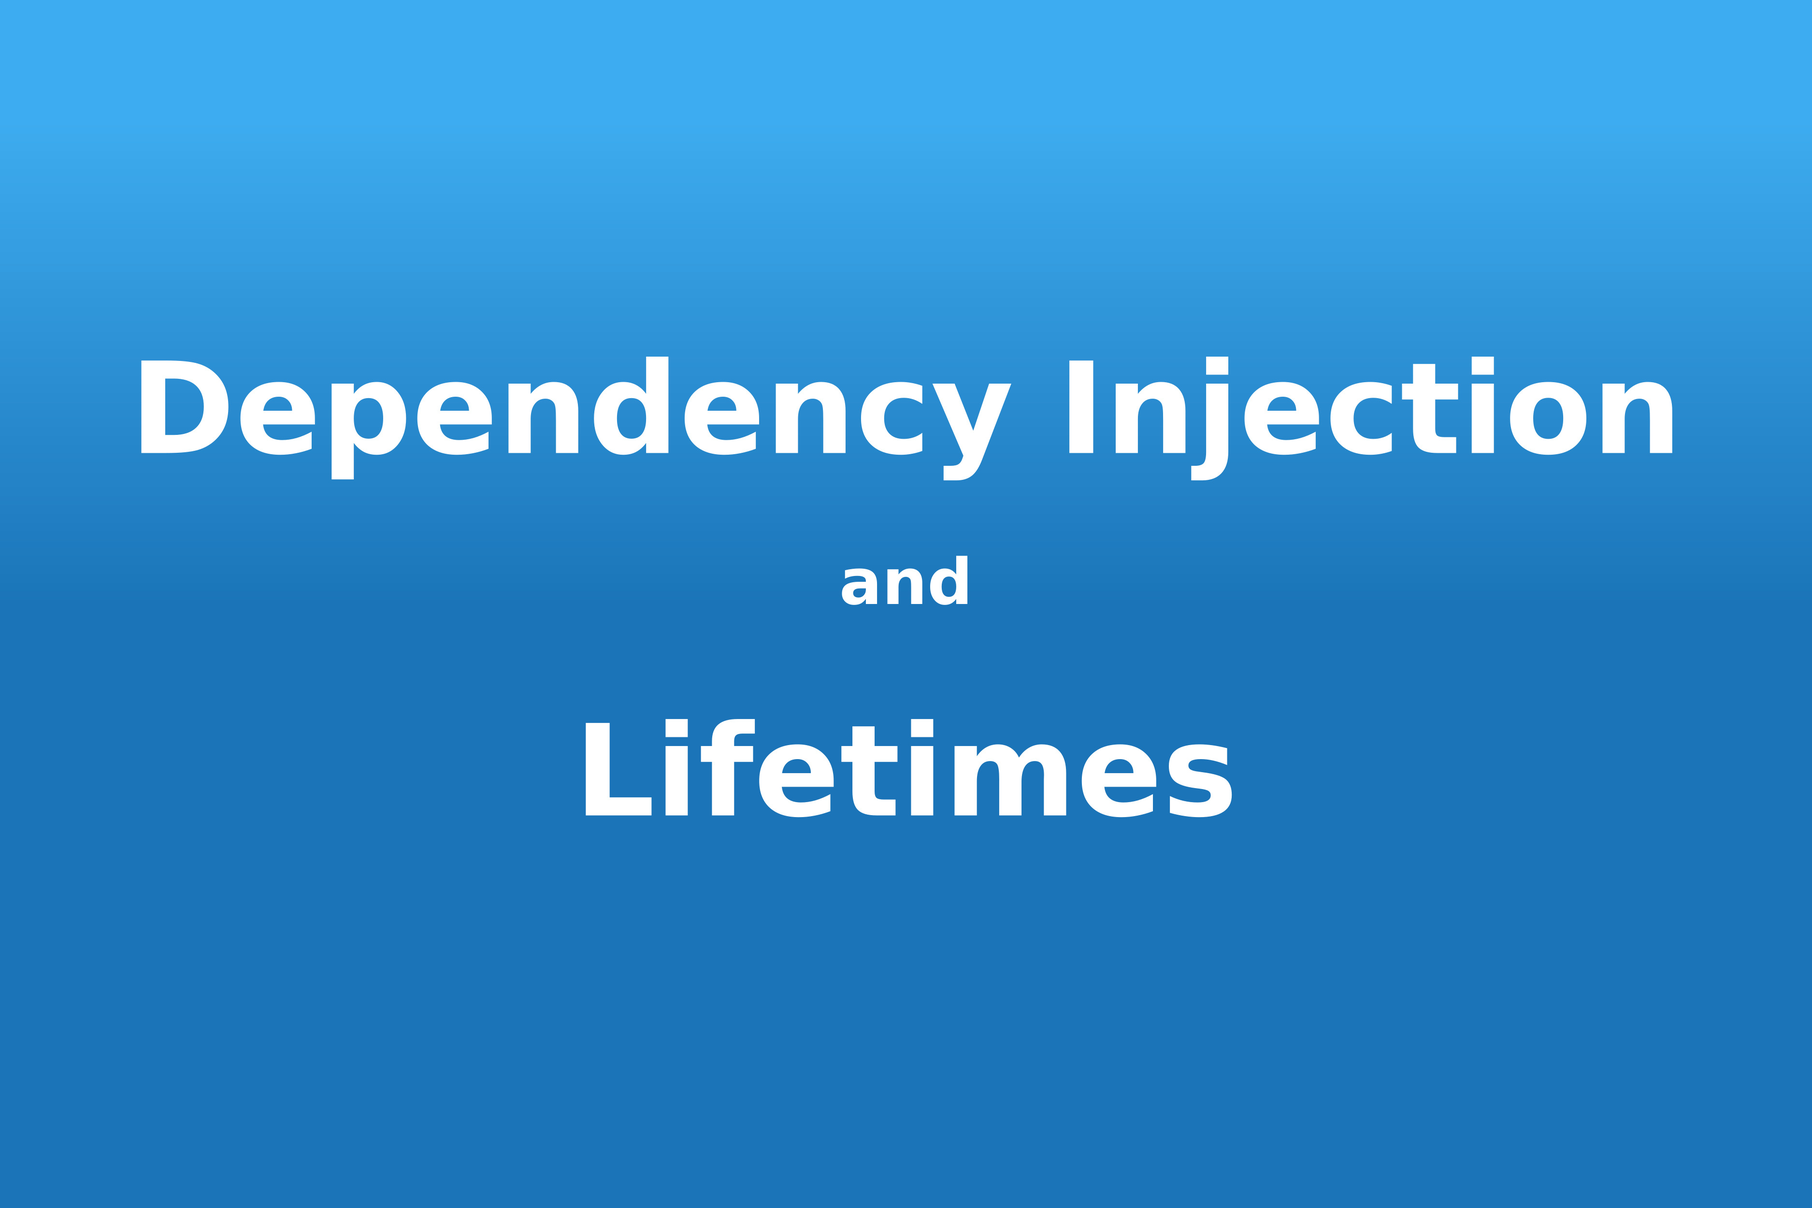
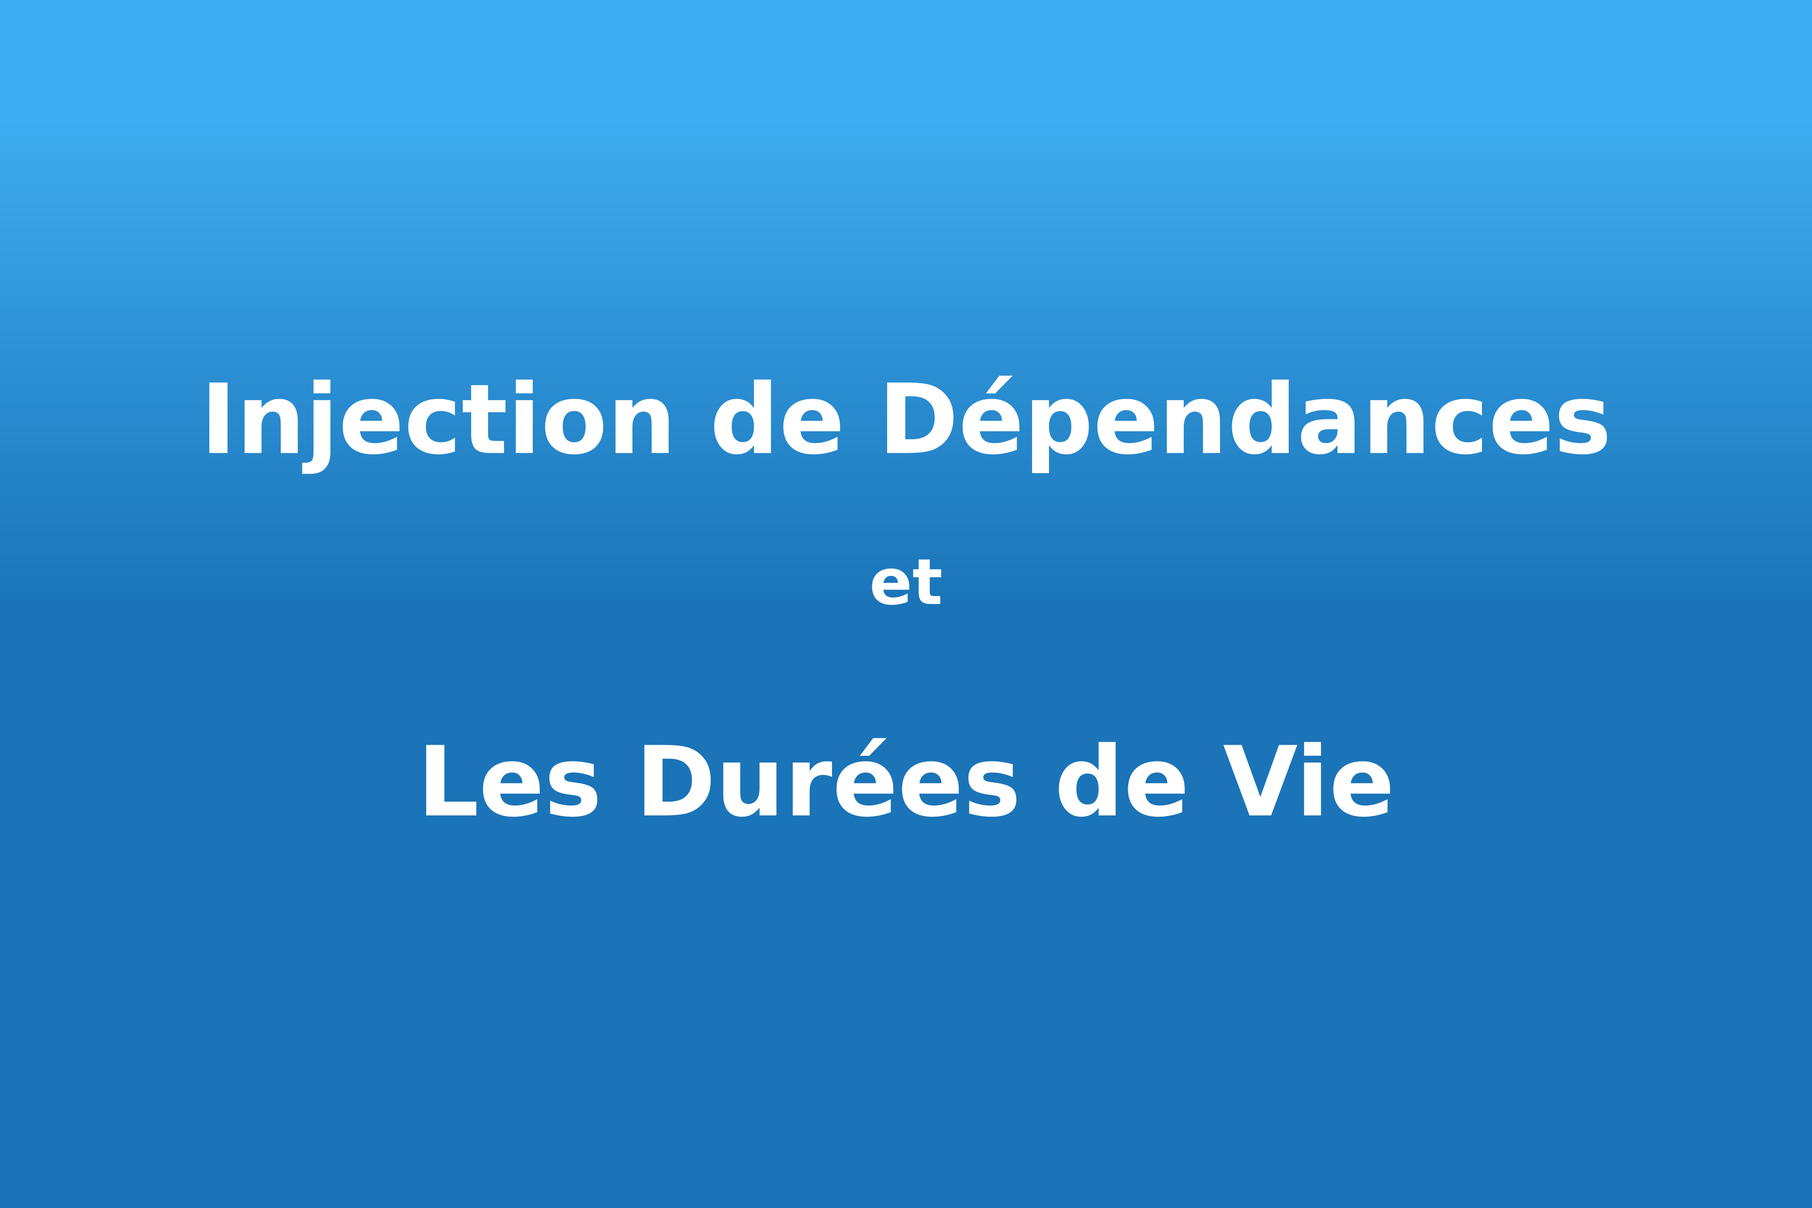
schedule article 2025-08-15

Changed region(s): [[0.0624, 0.2808, 0.936, 0.4056], [0.2184, 0.5928, 0.78, 0.6864], [0.468, 0.468, 0.5616, 0.4992]]

diff --git a/content/post/2025-08/injection-de-dependance-et-durees-de-vie-applicatives/index.md b/content/post/2025-08/injection-de-dependance-et-durees-de-vie-applicatives/index.md
@@ -1,27 +1,26 @@
 ---
 title: "Injection de dépendance et durées de vie applicatives"
-description: "Dans le développement de logiciels, en particulier dans le contexte de l'injection de dépendances, les durées de vie des services déterminent combien de temps une instance d'une classe est maintenue en vie."
+description: "Dans le développement de logiciels, en particulier dans le contexte de l’injection de dépendances, les durées de vie des services déterminent combien de temps une instance d’une classe est maintenue en vie."
 image: 2025-05-19-dependency-injection-and-lifetimes.jpg
-imageAlt: « Dependency Injection and Lifetimes » sur un fond dégradé
+imageAlt: "« Dependency Injection and Lifetimes » sur un fond dégradé"
 date: 2025-08-15
 categories:
-  - Software Development
+  - Développement Logiciel
 tags:
   - CSharp
-draft: true
 ---
 
-Il existe 3 durées de vie possibles quand on utilise l'injection de dépendance : `Transient`, `Scoped` et `Singleton`.
+Il existe 3 durées de vie possibles quand on utilise l’injection de dépendance : `Transient`, `Scoped` et `Singleton`.
 
-Détaillons chacune d'entre elles avec une définition, ses cas d'utilisation respectifs et un exemple.
+Détaillons chacune d’entre elles avec une définition, ses cas d’utilisation respectifs et un exemple.
 
 ## Transient
 
-Si vous avez besoin d'une nouvelle instance à chaque fois que vous demandez le service, `Transient` répond à vos besoins.
+Si vous avez besoin d’une nouvelle instance à chaque fois que vous demandez un service, `Transient` répond à vos besoins.
 
-C'est ce que nous appelons des services sans état, où chaque opération est indépendante des opérations précédentes.
+C’est ce que nous appelons des services sans état, où chaque opération est indépendante des opérations précédentes.
 
-### Exemple de code d'un Transient
+### Exemple de code d’un `Transient`
 
 Prenons un exemple très trivial avec la programmation C# :
 
@@ -43,41 +42,41 @@ public class TransientService : ITransientService
 services.AddTransient<ITransientService, TransientService>();
 ```
 
-### Cas d'utilisation courants pour un transitoire
+### Cas d’utilisation courants pour un `Transient`
 
-En général, les cas d'utilisation les plus courants sont les suivants :
+En général, les cas d’utilisation les plus courants sont les suivants :
 
-- **Services d'utilitaire**, qui n'ont pas besoin de maintenir un état entre les appels.
+- **Services d’utilitaire**, qui n’ont pas besoin de maintenir un état entre les appels.
 - **Services de formatage**, tels que la conversion de données dans un format de chaîne spécifique.
-- **Services de calcul**, lorsque vous devez effectuer des calculs ou des transformations de données sans avoir à maintenir d'état.
-- **Services d'opération**, qui effectuent une opération spécifique indépendamment chaque fois qu'ils sont appelés, comme l'envoi d'un courrier électronique ou l'enregistrement d'un événement.
+- **Services de calcul**, lorsque vous devez effectuer des calculs ou des transformations de données sans avoir à maintenir d’état.
+- **Services d’opération**, qui effectuent une opération spécifique indépendamment chaque fois qu’ils sont appelés, comme l’envoi d’un courrier électronique ou l’enregistrement d’un événement.
 
-Bien sûr, tous ces usages supposent que l'on a besoin d'une instanciation de classe.
+Bien sûr, tous ces usages supposent que l’on a besoin d’une instanciation de classe. Dans le cas de classes statiques, vous n’avez pas besoin de `Transient`.
 
 ## Scoped
 
-Lorsque vous devez maintenir un état au cours d'une seule requête, mais pas au cours de plusieurs requêtes, l'utilisation du `Scoped` correspond à la durée de vie à utiliser.
+Lorsque vous devez maintenir un état au cours d’une seule requête, mais pas au cours de plusieurs requêtes, l’utilisation du `Scoped` correspond à la durée de vie à utiliser.
 
-Dans une application web, nous créons une nouvelle instance pour chaque requête HTTP, et nous pouvons l'utiliser pendant toute la durée de vie de la requête.
+Dans une application web, nous créons une nouvelle instance pour chaque requête HTTP, et nous pouvons l’utiliser pendant toute la durée de vie de la requête.
 
-### Cas d'utilisation courants pour un `Scoped`
+### Cas d’utilisation courants pour un `Scoped`
 
-Voici quelques cas d'utilisation courants :
+Voici quelques cas d’utilisation courants :
 
-- **Entity Framework DbContext**, qui garantit une instance unique du DbContext utilisée tout au long d'une requête pour gérer les opérations de base de données, évitant ainsi les problèmes de concurrence et garantissant que toutes les modifications sont suivies et conservées correctement.
-- **Le modèle d'unité de travail**, qui permet de gérer une unité de travail unique englobant plusieurs opérations de référentiel au sein d'une même requête.
-- **La mise en cache par requête**, pour mettre en cache les données qui sont coûteuses à récupérer ou à calculer et qui doivent être réutilisées au sein d'une même requête, mais pas au-delà.
-- **Données spécifiques à la demande** : Stockage de données spécifiques à une demande, telles que les informations d'authentification de l'utilisateur, qui doivent être accessibles par plusieurs composants au cours du traitement de la demande.
+- **Le `DbContext` d’_Entity Framework_**, qui garantit une instance unique du `DbContext` utilisée tout au long d’une requête pour gérer les opérations de base de données. Cela évite ainsi les problèmes de concurrence et garantissant que toutes les modifications sont suivies et conservées correctement.
+- **Le modèle d’unité de travail**, qui permet de gérer une unité de travail unique englobant plusieurs opérations de référentiel au sein d’une même requête.
+- **La mise en cache par requête**, pour mettre en cache les données qui sont coûteuses à récupérer ou à calculer et qui doivent être réutilisées au sein d’une même requête, mais pas au-delà.
+- **Données spécifiques à la demande** : pour le stockage de données spécifiques à une demande, telles que les informations d’authentification de l’utilisateur, qui doivent être accessibles par plusieurs composants au cours du traitement de la demande.
 
-### Code Example of a Scoped
+### Exemple de code pour un `Scoped`
 
-Let’s consider a scenario where we have a web application that handles user authentication and authorization. We need to access user-specific data multiple times during a single request to ensure that the user has the correct permission to access various resources.
+Considérons un scénario dans lequel nous avons une application web qui gère l’authentification et l’autorisation des utilisateurs. Nous devons accéder à plusieurs reprises aux données spécifiques à l’utilisateur au cours d’une seule requête afin de nous assurer que l’utilisateur dispose des autorisations nécessaires pour accéder à diverses ressources.
 
-We can use a scoped service to store and manage this user data.
+Nous pouvons utiliser un service à portée pour stocker et gérer ces données utilisateur.
 
-1. Let’s create a `UserContextService` and its interface:
+1. Créons un `UserContextService` et son interface.:
 
-   It holds user-specific data for the duration of a single request.
+   Il contient des données spécifiques à l’utilisateur pendant la durée d’une seule requête.
 
    ```csharp
    public interface IUserContextService
@@ -119,11 +118,11 @@ We can use a scoped service to store and manage this user data.
    }
    ```
 
-2. Next, let’s register the Scoped Service:
+2. Ensuite, enregistrons le service en tant que service `Scoped` :
 
-   In an `IocHelper` class (or wherever you configure your services that you call from `Program.cs`), register the `UserContextService` with a scoped lifetime.
+   Dans une classe `IocHelper` (ou à l’endroit où vous configurez vos services que vous appelez depuis `Program.cs`), enregistrez le `UserContextService` avec une durée de vie limitée.
 
-   Below, we use an extension method registering the `UserContextService`.
+   Ci-dessous, nous utilisons une méthode d’extension `ConfigureServices` qui enregistre le `UserContextService`.
 
    ```csharp
    public class IocHelper
@@ -131,17 +130,15 @@ We can use a scoped service to store and manage this user data.
        public void ConfigureServices(this IServiceCollection services)
        {
            services.AddScoped<IUserContextService, UserContextService>();
-
-           // Other service registrations...
+           // Autres enregistrements de services peuvent suivre...
        }
 
-       // Other methods...
    }
    ```
 
-3. We continue with the implementation of a Middleware to populate `UserContextService`
+3. Nous poursuivons la mise en œuvre d’un middleware pour alimenter `UserContextService`
 
-   We create a middleware to populate the `UserContextService` with user data at the beginning of each request.
+   Nous créons un middleware pour remplir le `UserContextService` avec les données utilisateur au début de chaque requête.
 
    ```csharp
    public class UserContextMiddleware
@@ -166,23 +163,23 @@ We can use a scoped service to store and manage this user data.
    }
    ```
 
-4. Then, you register the middleware:
+4. Ensuite, nous enregistrons le middleware.:
 
    ```csharp
    public class AppConfigurationHelper
    {
-   		// Register the middleware
+   		// Enregistrer le middleware
    		public void RegisterMiddlwares(this IApplicationBuilder app)
    		{
    		    app.UseMiddleware<UserContextMiddleware>();
-   		    // Other middleware registrations...
+   		    // Autres enregistrements de middleware...
    		}
    }
    ```
 
-5. Finally, use `UserContextService` in a Controller.
+5. Enfin, on peut aussi utiliser `UserContextService` dans un contrôleur.
 
-   In a controller, you can inject the `IUserContextService` and use it to access user-specific data during the request.
+   Dans un contrôleur, vous pouvez injecter le `IUserContextService` et l’utiliser pour accéder aux données spécifiques à l’utilisateur pendant la requête.
 
    ```csharp
    public class HomeController : Controller
@@ -199,34 +196,34 @@ We can use a scoped service to store and manage this user data.
            var userName = _userContextService.GetUserName();
            var roles = string.Join(", ", _userContextService.GetRoles());
 
-           return Content($"Hello {userName}, you have the following roles: {roles.Join(',')}");
+           return Content($"Bonjour {userName}, Vous avez les rôles suivants : {roles.Join(',')}");
        }
    }
    ```
 
 ## Singleton
 
-If you need to maintain shared state across the entire application lifetime, using a Singleton is a good choice.
+Si vous avez besoin de maintenir un état partagé pendant toute la durée de vie de l’application, l’utilisation d’un singleton est un bon choix.
 
-It’s created once on the first request or at application startup. Every subsequent request will use the same instance.
+Il est créé une seule fois lors de la première requête ou au démarrage de l’application. Chaque requête suivante utilisera la même instance.
 
-### Common Use Cases of a Singleton
+### Cas d’utilisation courants d’un `Singleton`
 
-You will find that using a Singleton commonly falls into the following use cases:
+Vous rencontrerez une utilisation de singletons dans les cas d’utilisation suivants :
 
-- **Configuration Services,** which provide application-wide configuration settings read once and used throughout the application’s lifetime.
-- **Logging Services**: Centralized logging services that need to maintain a single instance to collect and process log entries from various parts of the application.
-- **Caching Services,** that need to cache data globally to avoid repeating expensive operations, such as fetching **static data** or configuration from a database.
+- **Services de configuration**, qui fournissent des paramètres de configuration à l’échelle de l’application, lus une seule fois et utilisés tout au long du cycle de vie de l’application.
+- **Services de journalisation** : services de journalisation centralisés qui doivent maintenir une instance unique pour collecter et traiter les entrées de journal provenant de différentes parties de l’application.
+- **Services de mise en cache**, qui doivent mettre en cache les données de manière globale afin d’éviter de répéter des opérations coûteuses. Par exemple, la récupération de **données statiques** ou de configurations à partir d’une base de données.
 
-### Example of a Singleton
+### Exemple de code pour un `Singleton`
 
-The most common usage will be our example: we have a web application that needs to log activities across different modules. We want to use a single logging service that collects and processes all log entries, ensuring that log data is centralized and managed efficiently.
+L’utilisation la plus courante sera notre exemple : nous avons une application web qui doit enregistrer les activités dans différents modules. Nous voulons utiliser un service de journalisation unique qui collecte et traite toutes les entrées de journal, garantissant ainsi que les données de journalisation sont centralisées et gérées efficacement.
 
-1. Let’s start with the implementation of a `LoggingService`
+1. Commençons par la mise en œuvre d’un `LoggingService`
 
-   The `LoggingService` below logs messages to a centralized log store.
+   Le `LoggingService` enregistre les messages dans un magasin de journaux centralisé.
 
-   The service should be a singleton to ensure that all components use the same instance.
+   Le service doit être un singleton afin de garantir que tous les composants utilisent la même instance.
 
    ```csharp
    public interface ILoggingService
@@ -251,9 +248,9 @@ The most common usage will be our example: we have a web application that needs 
    }
    ```
 
-2. Next, we register the Singleton Service
+2. Ensuite, nous enregistrons le service Singleton.
 
-   In an `IocHelper` class (or wherever you configure your services that you call from `Program.cs`), register the `LoggingService` with a singleton lifetime.
+   Dans une classe `IocHelper` (ou à l’endroit où vous configurez vos services que vous appelez depuis `Program.cs`), enregistrez le `LoggingService` avec une durée de vie singleton.
 
    ```csharp
    public class IocHelper
@@ -261,17 +258,13 @@ The most common usage will be our example: we have a web application that needs 
        public void ConfigureServices(this IServiceCollection services)
        {
            services.AddSingleton<ILoggingService, LoggingService>();
-
-           // Other service registrations...
        }
-
-       // Other methods...
    }
    ```
 
-3. Finally, use `LoggingService` in Controllers
+3. Enfin, utilisez `LoggingService` dans les contrôleurs ou les services.
 
-   In a controller, you can inject the `ILoggingService` into the constructor and use it to log messages.
+   Dans un contrôleur, vous pouvez injecter le `ILoggingService` dans le constructeur et l’utiliser pour enregistrer des messages.
 
    ```csharp
    public class HomeController : Controller
@@ -297,35 +290,35 @@ The most common usage will be our example: we have a web application that needs 
    }
    ```
 
-### En savoir plus sur les durées de vie
+## En savoir plus sur les durées de vie
 
-Si vous souhaitez approfondir le sujet, vous trouverez ci-dessous quelques sources en ligne :
+Si vous souhaitez approfondir le sujet, vous trouverez ci-dessous quelques ressources en ligne :
 
 - **Microsoft Documentation**:
-  - [Durée de vie des services dans le cadre de l'injection de dépendances](https://learn.microsoft.com/fr-fr/aspnet/core/fundamentals/dependency-injection#service-lifetimes)
-  - Cet article explique les trois durées de vie (Transient, Scoped, Singleton) et fournit des conseils sur le moment où il convient d'utiliser chacune d'entre elles.
-- **Module Microsoft Learn sur l'injection de dépendances dans .NET**:
+  - [Durée de vie des services dans le cadre de l’injection de dépendances](https://learn.microsoft.com/fr-fr/aspnet/core/fundamentals/dependency-injection#service-lifetimes)
+  - Cet article explique les trois durées de vie (Transient, Scoped, Singleton) et fournit des conseils sur le moment où il convient d’utiliser chacune d’entre elles.
+- **Module Microsoft Learn sur l’injection de dépendances dans .NET**:
   - [Injection de dépendances en .NET](https://learn.microsoft.com/en-us/dotnet/core/extensions/dependency-injection)
-  - Ce module propose un examen approfondi de l'injection de dépendances dans .NET, y compris des exemples et des bonnes pratiques pour l'utilisation de différentes durées de vie de services.
+  - Ce module propose un examen approfondi de l’injection de dépendances dans .NET, y compris des exemples et des bonnes pratiques pour l’utilisation de différentes durées de vie de services.
 - **Stack Overflow**:
   - [When to use AddTransient vs AddScoped vs AddSingleton in ASP.NET Core?](https://stackoverflow.com/questions/38138100/addtransient-addscoped-and-addsingleton-services-differences)
-  - Ce fil de discussion aborde les scénarios pratiques et les implications de l'utilisation de différentes durées de vie, à l'aide d'exemples et de points de vue fournis par la communauté.
-- **Article de blog sur l'injection de dépendance**:
+  - Ce fil de discussion aborde les scénarios pratiques et les implications de l’utilisation de différentes durées de vie, à l’aide d’exemples et de points de vue fournis par la communauté.
+- **Article de blog sur l’injection de dépendance**:
   - [Understanding Dependency Injection in .NET Core](https://auth0.com/blog/dependency-injection-in-dotnet-core/)
-  - Cet article de blog couvre les bases de l'injection de dépendances dans .NET Core et explique les différentes durées de vie à l'aide d'exemples pratiques.
+  - Cet article de blog couvre les bases de l’injection de dépendances dans .NET Core et explique les différentes durées de vie à l’aide d’exemples pratiques.
 
 ## Summary
 
-Use **Transient** for stateless services that **can be recreated as needed** and **don’t hold a state**.
+Utilisez **Transient** pour les services sans état qui **peuvent être recréés selon les besoins** et **ne conservent pas d’état**.
 
-Use **scoped** for services that should be **unique to a single request or scope,** holding state that shouldn’t persist beyond that scope.
+Utilisez **Scoped** pour les services qui doivent être **uniques à une seule requête HTTP**, conservant un état qui ne doit pas persister au-delà de cette requête HTTP.
 
-Use **Singleton** for services that need to **maintain a state across the entire application lifecycle** and all requests and users can access it through the various services.
+Utilisez **Singleton** pour les services qui doivent **conserver un état tout au long du cycle de vie de l’application** et auxquels toutes les requêtes et tous les utilisateurs peuvent accéder via les différents services.
 
-I hope this short summary helped you understand the usage of each lifetime next time you work a new service for your applications.
+J’espère que ce bref résumé vous aura aidé à comprendre l’utilisation de chaque durée de vie la prochaine fois que vous travaillerez sur un nouveau service pour vos applications.
 
-{{< blockcontainer jli-notice-tip "Follow me">}}
+{{< blockcontainer jli-notice-tip "Suivez-moi !">}}
 
-Thanks for reading this article. Make sure to [follow me on X](https://x.com/LitzlerJeremie), [subscribe to my Substack publication](https://iamjeremie.substack.com/) and bookmark my blog to read more in the future.
+Merci d'avoir lu cet article. Assurez-vous de [me suivre sur X](https://x.com/LitzlerJeremie), de [vous abonner à ma publication Substack](https://iamjeremie.substack.com/) et d'ajouter mon blog à vos favoris pour ne pas manquer les prochains articles.
 
 {{< /blockcontainer >}}
